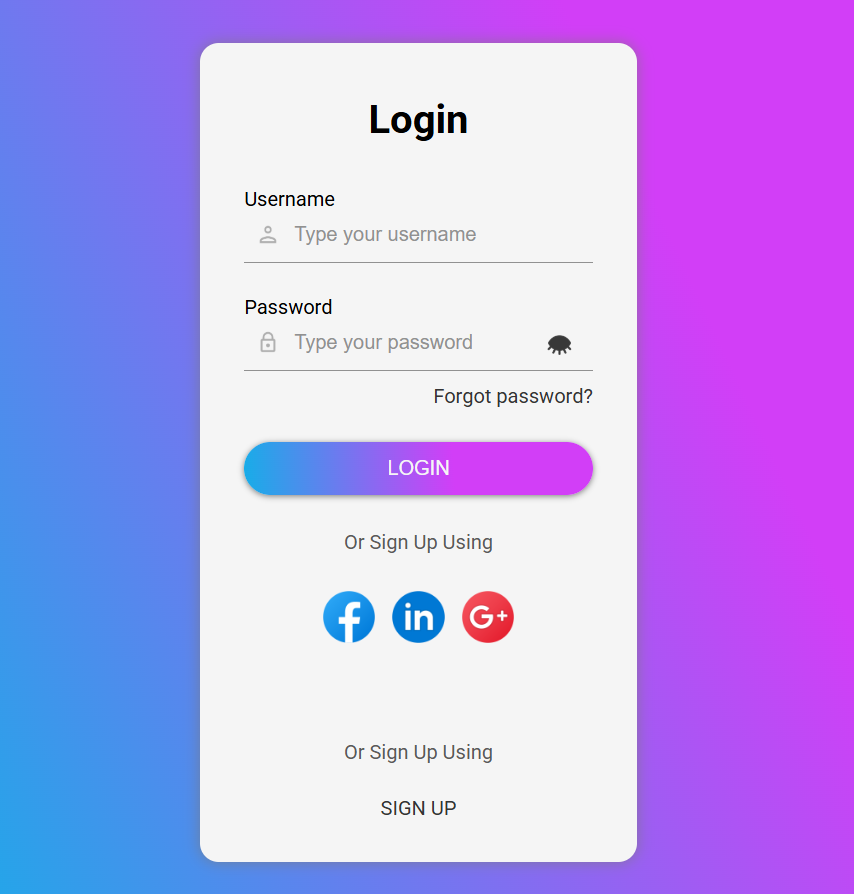
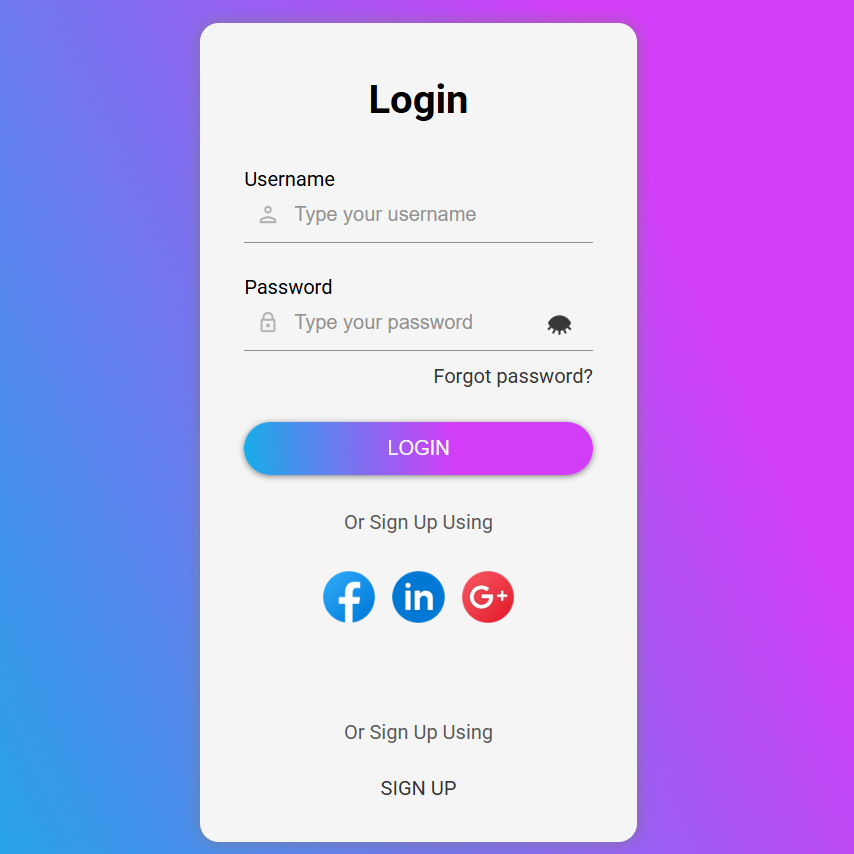
Projects section is largely done, let me look for Background for it

diff --git a/style/style.css b/style/style.css
@@ -304,7 +304,7 @@ hr {
 #projects-section {
     display: flex;
     flex-direction: column;
-    height: 100vh;
+    /* height: 100vh; */
     text-align: center;
     padding: 20px;
     padding-left: 10px;
@@ -317,7 +317,7 @@ hr {
     font-size: 2rem;
     text-align: center;
     margin-top: 0.6em;
-    margin-bottom: 5%;
+    margin-bottom: 1.2em;
 }
 
 .projects-container {
@@ -336,8 +336,9 @@ hr {
     flex-direction: column;
     background-color: #f1f3f9;
     margin: 10px;
-    justify-content:end;
-    justify-content: center;
+    height: 35em;
+    /* justify-content:end; */
+    /* justify-content: center; */
     padding: 15px;
     border-radius: 10px;
     box-shadow: var(--shadow);

diff --git a/style/animation.css b/style/animation.css
@@ -1,0 +1,4 @@
+@keyframes bg-change {
+    from {background-color: ;}
+    to {background-color: ;}
+}